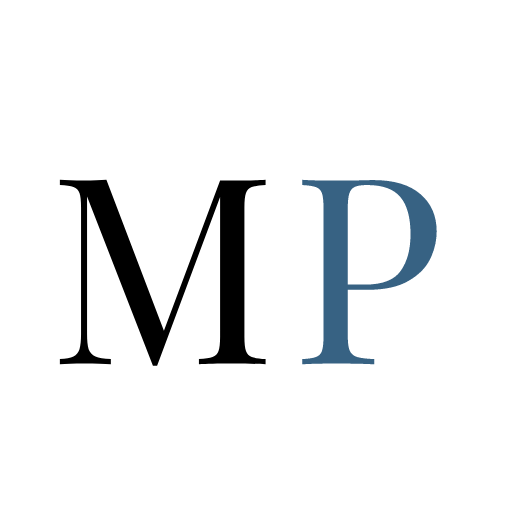
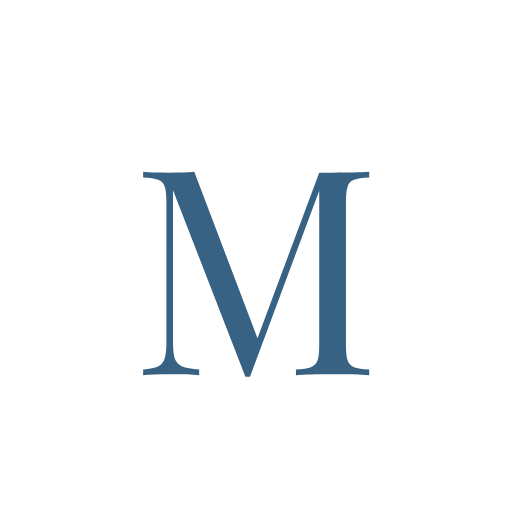
Updates

Changed region(s): [[0.0938, 0.3125, 0.875, 0.75]]

diff --git a/static/js/main.391ee6e3.chunk.js b/static/js/main.391ee6e3.chunk.js
@@ -1,0 +1,2 @@
+(this["webpackJsonppersonal-site"]=this["webpackJsonppersonal-site"]||[]).push([[0],{10:function(n){n.exports=JSON.parse('{"light":{"name":"light","bgColor":"#FFFFF9","contentBgColor":"#FFFFF9","color":"#000000","accentColor":"#376283","boxShadowSmall":"5px 5px 10px #b3b3b0, -5px -5px 10px #ffffff","boxShadowBig":"10px 10px 20px #b3b3b0, -10px -10px 20px #ffffff","boxShadowInset":"inset 2px 2px 4px #b3b3b0, inset -2px -2px 4px #ffffff","boxShadowInsetAccent":"inset 2px 2px 4px #28475e, inset -2px -2px 4px #467da8 !important","transition":"all .5s ease-out","titleFont":"\'Playfair Display\', serif","subtitleFont":"\'Playfair Display\', serif","paragraphFont":"\'Playfair Display\', serif"},"dark":{"name":"dark","bgColor":"#000000","contentBgColor":"#131313","color":"#FFFFFF","accentColor":"#3f51b5","boxShadowSmall":"1px 1px 3px #131313","boxShadowBig":"0 0 0 #000000","boxShadowInset":"inset 0 0 0 #000000","boxShadowInsetAccent":"inset 0 0 0 #000000","transition":"all .5s ease-out","titleFont":"\'Varela\', sans-serif","subtitleFont":"\'Varela\', sans-serif","paragraphFont":"\'Varela\', sans-serif"}}')},11:function(n){n.exports=JSON.parse('{"email":"martinlpetrov1@gmail.com","phone":"+1-(310)-916-3283","location":"Davis, CA, 95616"}')},12:function(n){n.exports=JSON.parse('{"serviceId":"service_ufioaaq","templateId":"template_yf7tk8j","userId":"user_tDnIQ3HQfT79KGmygmH5Y"}')},25:function(n){n.exports=JSON.parse('[{"name":"AI-API","size":"normal","imageUrl":"project-images/ai-api.jpg","fontColor":"black","startDate":"December 2020","endDate":"Now","category":["web-dev"],"tools":["typescript","nodejs","postgresql","react"],"githubUrl":"https://github.com/ai-api","description":"An ongoing project that allows developers to integrate any tenstorflow ml model into their workflow through simple API requests","accomplishments":[]},{"name":"What-To-Watch","url":"http://whattowatch.martin-petrov.com","imageUrl":"project-images/what-to-watch.png","fontColor":"white","startDate":"Jan 2021","endDate":"Jan 2021","category":["web-dev","dev-ops"],"tools":["typescript","react","nodejs","docker"],"githubUrl":"https://github.com/martinpetrov1096/WhatToWatch","description":"A quick and easy way to coordinate with friends to decided on what to watch","accomplishments":[]},{"name":"Personal Site","url":"http://martin-petrov.com","size":"normal","iconUrl":"","imageUrl":"project-images/personal-site.png","fontColor":"black","startDate":"January 2021","endDate":"January 2021","category":["web-dev"],"tools":["javascript","react"],"githubUrl":"https://github.com/martinpetrov1096/Personal-Site","description":"You\'re looking at it","accomplishments":[]},{"name":"Secure Password Manager","imageUrl":"project-images/secret.jpeg","fontColor":"black","startDate":"April 2020","endDate":"October 2020","category":["web-dev","dev-ops"],"tools":["javascript","react","nodejs","dot-net","docker"],"githubUrl":"https://github.com/secret-passwordmanager","description":"A unique approach to password managers","accomplishments":["Oversaw the development of a unique password management system that allows users to securely enter their credentials from a computer, regardless of any malware on it","Developed a microservice architecture backend consisting of a handful of services written in .NET Core and Node JS","Used Docker Compose to containerize and synchronize all microservices to allow other developers to run the backend with 1 command","Set up scheduled API endpoint testing using Postman to help find bugs","Created a browser extension to communicate with our backend using vanilla JS","Worked with others on the React Native app","Contributed over 10,000 lines of code, and documented all API endpoints for the backend."]},{"name":"Restaurant Tinder","url":"http://findfood.martin-petrov.com","imageUrl":"project-images/rest-tinder.png","fontColor":"white","startDate":"June 2020","endDate":"July 2020","category":["web-dev"],"tools":["javascript","vuejs"],"githubUrl":"https://github.com/martinpetrov1096/RestaurantFinder","description":"A fun game to play with friends to figure out where to eat","accomplishments":[]},{"name":"Chegg Scraper","url":"http://chegg.martin-petrov.com","imageUrl":"project-images/chegg-scraper.png","fontColor":"black","startDate":"December 2019","endDate":"December 2019","category":["web-dev"],"tools":["dot-net","csharp","bootstrap"],"githubUrl":"https://github.com/martinpetrov1096/CheggScraperCore","description":"A tool to help students find solutions to problems they\'re struggling with","accomplishments":["Built a web app that allows users to find solutions to homework or practice problems that are hidden behind the paywalls of Chegg.com","Used .NET Core to create a backend that can scrape Chegg.com in real time and return the solutions to the client."]},{"name":"Home Server","imageUrl":"project-images/home-server.jpg","size":"normal","fontColor":"white","startDate":"December 2019","endDate":"December 2019","category":["web-dev"],"tools":["linux","docker","ubuntu"],"githubUrl":"https://github.com/martinpetrov1096/ServerConfig","description":"A personal server running Ubuntu 20.20 LTS that I use to store media and host my personal projects","accomplishments":[]}]')},32:function(n,e,t){},33:function(n,e,t){},5:function(n){n.exports=JSON.parse('{"languages":["javascript","typescript","python","c","csharp","java","cplusplus","go"],"frontend":["html5","css3","react","vuejs","jquery","bootstrap"],"backend":["nodejs","express","postgresql","redis","dot-net","microsoftsqlserver"],"dev-ops":["linux","visualstudio","git","nginx","docker"],"etc":[]}')},56:function(n,e,t){"use strict";t.r(e);var r=t(0),o=t(2),i=t.n(o),a=t(19),c=t.n(a),s=t(3),l=t(20),u=t(4),f=(t(32),t(33),t(1)),d=t(21),b=t.n(d),p=t(6);function h(){var n=Object(s.a)(["\n   border-radius: 100%;\n   border: none;\n   height: 30px;\n   width: 30px;\n   background-color: ",";\n   box-shadow: ",";\n\n   transition: ",", background-color .5s ease-in-out, background-image 1s ease-in-out, box-shadow .5s ease-in-out;\n   \n   @media screen and (max-width: 400px) {\n      height: 20px;\n      width: 20px;\n   }\n"]);return h=function(){return n},n}function x(){var n=Object(s.a)(["\n   flex-basis: 300px;\n   flex-grow: 1;\n   max-width: 500px;\n   display: flex;\n   flex-flow: row nowrap;\n   justify-content: space-around;\n\n   @media screen and (max-width: 400px) {\n      flex-basis: 150px;\n   }\n\n"]);return x=function(){return n},n}function m(){var n=Object(s.a)(["\n   border-radius: 5px;\n   padding: 10px;\n   min-width: 40px;\n   flex-basis: 100px;\n   flex-shrink: 2;\n   flex-grow: 0;\n   background: ",";\n   color: ",";\n   font-family: 'Oswald', sans-serif;\n   font-size: 22px;\n   font-weight: 400;\n   text-align: center;\n   box-shadow: ",";\n   transition: ",";\n\n   @media screen and (max-width: 400px) {\n      border-radius: 3px;\n      font-size: 16px;\n      flex-basis: 60px;\n      padding: 10px;\n   }\n"]);return m=function(){return n},n}function j(){var n=Object(s.a)(["\n   position: fixed;\n   z-index: 99;\n   /* \n    * If not at top of page, give a shadow to \n    * navbar\n   */\n   box-shadow: ",";\n   padding: 10px;\n   width: calc(100% - 20px);\n   height: 50px;\n   background: ",";\n   transition: ",", box-shadow .2s ease-in-out;\n\n   display: flex;\n   flex-flow: row;\n   align-items: center;\n   justify-content: flex-start;\n\n   @media screen and (max-width: 400px) {\n      justify-content: space-around;\n   }\n"]);return j=function(){return n},n}var g=function(n){var e=n.scroll,t=n.curTab,i=Object(o.useCallback)((function(n){return n===t}),[t]),a=Object(o.useMemo)((function(){return p.map((function(n){return Object(r.jsx)(y,{href:"#"+n.toLowerCase(),active:i(n)},n)}))}),[i]);return Object(r.jsxs)(w,{raised:e,children:[Object(r.jsx)(v,{children:Object(r.jsx)(b.a,{text:t,direction:"down",noOverflow:!0,inline:!0})}),Object(r.jsx)(O,{children:a})]})},w=f.b.nav(j(),(function(n){return n.raised?n.theme.boxShadowSmall:"none"}),(function(n){return n.theme.bgColor}),(function(n){return n.theme.transition})),v=f.b.h3(m(),(function(n){return n.theme.contentBgColor}),(function(n){return n.theme.accentColor}),(function(n){return n.theme.boxShadowInset}),(function(n){return n.theme.transition})),O=f.b.div(x()),y=f.b.a(h(),(function(n){return n.active?n.theme.accentColor:n.theme.contentBgColor}),(function(n){return n.active?n.theme.boxShadowInsetAccent:n.theme.boxShadowInset}),(function(n){return n.theme.transition}));function k(){var n=Object(s.a)(["\n   font-family: ",";\n   font-size: 10vw;\n   font-weight: 700;\n   grid-area: name;\n   display: flex;\n   flex-flow: row wrap;\n   justify-content: center;\n   align-items: center;\n   word-wrap: normal;\n\n   & > span {\n      font-weight: 700;\n      color: ",';\n\n      &::before {\n         content: "\u0131"; \n         color: black;\n         position: absolute; \n      }\n   }\n']);return k=function(){return n},n}function S(){var n=Object(s.a)(['\n   margin-bottom: 200px;\n   height: 80vh;\n   width: 100%;\n   display: grid;\n   grid-template-areas: \n      "padding-top"\n      "name"\n      "padding-bottom";\n   grid-template-rows: 1fr 3fr 3fr;\n   position: relative; /* Needs to be here so that the \'i\' has something relative */\n']);return S=function(){return n},n}var C=function(){return Object(r.jsx)(F,{id:"home",children:Object(r.jsxs)(I,{children:["Mart",Object(r.jsx)("span",{children:"i"}),"n Petrov"]})})},F=f.b.section(S()),I=f.b.h1(k(),(function(n){return n.theme.titleFont}),(function(n){return n.theme.accentColor}));function z(){var n=Object(s.a)(["\n   margin: 100px 0;\n   border-radius: 5px;\n   height: 200px;\n   width: min(300px, 80%);\n   background: #FFFFCB;\n   font-family: 'Indie Flower', cursive;\n   box-shadow: ",";\n\n   transform: rotate(10deg);\n\n   display: flex;\n   flex-flow: column nowrap;\n   justify-content: center;\n   align-items: center;\n\n   transition: ",";\n\n   > h2 {\n      font-size: 24px;\n   }\n   > h6 {\n      font-size: 14px;\n   }\n"]);return z=function(){return n},n}function U(n){n.tilt;var e=n.text,t=n.subText;return Object(r.jsxs)(D,{children:[Object(r.jsx)("h2",{children:e}),Object(r.jsx)("h6",{children:t})]})}var D=f.b.div(z(),(function(n){return n.theme.boxShadowSmall}),(function(n){return n.theme.transition}));function A(){var n=Object(s.a)(["\n   box-shadow: ",";\n   border: none;\n   border-radius: 5px;\n   padding: 10px;\n   background-color: ",";\n   color: white;\n   font-family: ",";\n   font-size: 24px;\n"]);return A=function(){return n},n}function N(){var n=Object(s.a)(["\n   margin: 30px 0;\n   font-family: ",";\n\n   font-weight: 500;\n   font-size: 22px;\n   color: ",";\n   transition: ","\n"]);return N=function(){return n},n}function T(){var n=Object(s.a)(["\n   font-family: ",";\n   font-weight: 400;\n   font-size: min(20vw, 150px);\n"]);return T=function(){return n},n}function E(){var n=Object(s.a)(["\n   margin-bottom: 200px;\n   padding-top: 80px;\n   width: 95%;\n   max-width: 1800px;\n   color: ",";\n\n   /* Hide the section if on the next page */\n   opacity: ",";\n   transition: ",";\n   transform: ",";\n\n   display: flex;\n   flex-flow: column nowrap;\n   align-items: center;\n"]);return E=function(){return n},n}var P=f.b.section(E(),(function(n){return n.theme.color}),(function(n){return n.theme.name===n.visible?"1":"0"}),(function(n){return n.theme.transition}),(function(n){return n.theme.name===n.visible?"translateX(0)":"translateX(150px)"})),B=f.b.h1(T(),(function(n){return n.theme.titleFont})),J=f.b.h2(N(),(function(n){return n.theme.subtitleFont}),(function(n){return n.theme.color}),(function(n){return n.theme.transition}));f.b.button(A(),(function(n){return n.theme.boxShadowInsetAccent}),(function(n){return n.theme.accentColor}),(function(n){return n.theme.subtitleFont}));function M(){var n=Object(s.a)(["\n   box-shadow: ",";\n   border-radius: 5px;\n   padding: 20px;\n   background-color: ",";\n   color: white;\n   font-family: ",";\n   font-size: 24px;\n\n\n"]);return M=function(){return n},n}function q(){var n=Object(s.a)(["\n   position: relative;\n   width: 40vw;\n   height: auto;\n   z-index: 1;\n   box-shadow: ",";\n   overflow-x: hidden;\n   transition: all .5s ease-in-out;\n\n   filter: ",";\n   /**\n    * Unshift the image if we are on the resume section\n   */\n   transform: ",";\n\n   @media screen and (max-width: 1000px) {\n      width: 80vw;\n   }\n"]);return q=function(){return n},n}var L=function(n){var e=n.scroll;return Object(r.jsxs)(P,{visible:"light",id:"resume",children:[Object(r.jsx)(R,{src:"resume/resume.svg",alt:"Martin Petrov's Resume",unshift:e}),Object(r.jsx)(U,{tilt:"10",text:"Busy? Here's my resume"}),Object(r.jsx)(H,{href:"resume/resume.pdf",download:!0,children:"Download"})]})},R=f.b.img(q(),(function(n){return n.unshift?n.theme.boxShadowSmall:n.theme.boxShadowBig}),(function(n){return"dark"===n.theme.name?"brightness(70%)":"brightness(100%)"}),(function(n){return n.unshift?"translate3d(0,0,0) rotate(0) scale(1)":"translate3d(-20vw, 0vh, 0) rotate(-22deg) scale(1.2)"})),H=f.b.a(M(),(function(n){return n.theme.boxShadowInsetAccent}),(function(n){return n.theme.accentColor}),(function(n){return n.theme.subtitleFont})),_=t(25);function W(){var n=Object(s.a)(["\n   width: 100%;\n   display: flex;\n   flex-flow: row wrap;\n   justify-content: center;\n   align-items: center;\n   &::before {\n      content: 'Tools Used ';\n      width: 100%;\n      font-size: 20px;\n   }\n   & > * {\n      font-size: 18px;\n      margin: 3px;\n   }\n"]);return W=function(){return n},n}function K(){var n=Object(s.a)(["\n   text-decoration: none;\n   & > i {\n      font-size: 40px; \n      text-align: center;\n      transition: color .2s ease-in-out;\n      &:hover {\n         color: ",";\n      }\n   }\n"]);return K=function(){return n},n}function V(){var n=Object(s.a)(["\n   font-size: 28px;\n"]);return V=function(){return n},n}function Y(){var n=Object(s.a)(["\n   position: absolute;\n   border-radius: 5px;\n   width: 100%;\n   height: 100%;  \n   opacity: 0;\n   display: flex;\n   flex-flow: column nowrap;\n   justify-content: center;\n   align-items: center;\n   & > * {\n      font-family: 'Varela', sans-serif;\n      color: ",";\n      text-align: center;\n      padding: 3%;\n   }\n   & > h3 {\n      font-size: 28px;\n   }\n   & > h5 {\n      font-size: 14px;\n   }\n   transition: backdrop-filter .2s ease-in, opacity .2s ease-in;\n   &:hover {\n      opacity: 1;\n      backdrop-filter: blur(40px);\n   }\n"]);return Y=function(){return n},n}function Q(){var n=Object(s.a)(["\n   width: 100%;\n   border-radius: 0 0 5px 5px;\n"]);return Q=function(){return n},n}function X(){var n=Object(s.a)(["\n   height: 10px;\n   width: 10px;\n   border-radius: 50%;\n   margin-right: 5px;\n   /* Make the window buttons */\n   &:nth-of-type(1) {\n      background-color: #28ca41;\n   }\n   &:nth-of-type(2) {\n      background-color: #ffbd2e;\n   }\n   &:nth-of-type(3) {\n      background-color: #ff5f57 ;\n   }\n"]);return X=function(){return n},n}function G(){var n=Object(s.a)(["\n   border-radius: 5px 5px 0 0;\n   width: 100%;\n   height: 30px;\n   background-color: ",";\n   display: flex;\n   align-items: center;\n   justify-content: flex-end;   \n"]);return G=function(){return n},n}function Z(){var n=Object(s.a)([" \n   margin: max(1%, 20px) 1%;\n   border-radius: 10px;\n   flex: 480px 0 1;\n   transition: "," transform .25s ease-in-out;\n   position: relative;\n   display: flex;\n   flex-flow: column nowrap;\n   justify-content: flex-start;\n"]);return Z=function(){return n},n}var $=function(n){var e=n.project,t=Object(o.useMemo)((function(){return e.tools.map((function(n){return Object(r.jsx)("i",{className:"devicon-".concat(n,"-plain")},n)}))}),[e.tools]),i=Object(o.useMemo)((function(){return Object(r.jsx)("i",{className:"devicon-github-plain"})}),[]);return Object(r.jsxs)(nn,{size:e.size,children:[Object(r.jsxs)(en,{children:[Object(r.jsx)(tn,{}),Object(r.jsx)(tn,{}),Object(r.jsx)(tn,{})]}),Object(r.jsxs)(on,{fontColor:e.fontColor,children:[Object(r.jsx)(an,{href:e.url,target:"_blank",rel:"noopener noreferrer",children:e.name}),Object(r.jsx)(cn,{href:e.githubUrl,target:"_blank",rel:"noopener noreferrer",children:i}),Object(r.jsx)("h5",{children:e.description}),Object(r.jsx)(sn,{children:t})]}),Object(r.jsx)(rn,{src:e.imageUrl,alt:e.name})]},e.name)},nn=f.b.div(Z(),(function(n){return n.theme.transform})),en=f.b.div(G(),(function(n){return n.theme.contentBgColor})),tn=f.b.div(X()),rn=f.b.img(Q()),on=f.b.div(Y(),(function(n){return n.fontColor})),an=f.b.a(V()),cn=f.b.a(K(),(function(n){return n.theme.accentColor})),sn=f.b.div(W());function ln(){var n=Object(s.a)(["\n   display: flex;\n   flex-flow: row wrap;\n   justify-content: center;\n"]);return ln=function(){return n},n}var un=function(n){n.curTab;return Object(r.jsxs)(P,{visible:"dark",id:"portfolio",children:[Object(r.jsx)(B,{children:"Portfolio"}),Object(r.jsx)(fn,{children:_.map((function(n){return Object(r.jsx)($,{project:n},n.name)}))})]})},fn=f.b.div(ln());function dn(){var n=Object(s.a)(["\n   margin: 10px;\n   flex: 90px 1 0;\n\n   display: flex;\n   flex-flow: column nowrap;\n   justify-content: center;\n   align-items: center;\n\n   > i {\n      font-size: 90px;\n      margin-bottom: 10px;\n   }\n   > h6 {\n      font-family: ",";\n      font-size: 14px;\n      text-transform: capitalize;\n   }\n\n\n"]);return dn=function(){return n},n}function bn(){var n=Object(s.a)(["\n   margin-bottom: 20px;\n   padding-bottom: 10px;\n   border-bottom: solid 1px grey;\n   flex: 100% 1 0;\n   font-size: 30px;\n   font-family: ",";\n"]);return bn=function(){return n},n}function pn(){var n=Object(s.a)(["\n   margin: 40px;\n   border-radius: 10px;\n   padding: 40px;\n   width: calc(100% - 160px);\n   background-color: ",";\n\n   display: flex;\n   flex-flow: row wrap;\n   justify-content: center;\n   align-items: center;\n"]);return pn=function(){return n},n}var hn=function(n){var e=n.title,t=n.skills,i=Object(o.useMemo)((function(){return t.map((function(n){return"express"===n?Object(r.jsxs)(jn,{children:[Object(r.jsx)("i",{className:"devicon-express-original colored"}),Object(r.jsx)("h6",{children:n})]},n):Object(r.jsxs)(jn,{children:[Object(r.jsx)("i",{className:"devicon-".concat(n,"-plain colored")}),Object(r.jsx)("h6",{children:n})]},n)}))}),[t]);return Object(r.jsxs)(xn,{visible:"dark",children:[Object(r.jsx)(mn,{children:e}),i]})},xn=f.b.div(pn(),(function(n){return n.theme.contentBgColor})),mn=f.b.h2(bn(),(function(n){return n.theme.titleFont})),jn=f.b.div(dn(),(function(n){return n.theme.subtitleFont})),gn=t(5),wn=function(){return Object(r.jsxs)(P,{visible:"dark",id:"skills",children:[Object(r.jsx)(B,{children:"Skills"}),Object(r.jsx)(hn,{title:"Languages",skills:gn.languages}),Object(r.jsx)(hn,{title:"Front End",skills:gn.frontend}),Object(r.jsx)(hn,{title:"Back End",skills:gn.backend}),Object(r.jsx)(hn,{title:"Dev Ops",skills:gn["dev-ops"]})]})},vn=t(9);function On(){var n=Object(s.a)(["\n   padding-bottom: 50px;\n   max-width: 900px;\n   font-size: 22px;\n   line-height: 1.5;\n   > em {\n      font-weight: 700;\n      font-size: 28px;\n      \n   }\n"]);return On=function(){return n},n}function yn(){var n=Object(s.a)(["\n   text-align: center;\n   font-weight: 400;\n   padding-bottom: 20px;\n"]);return yn=function(){return n},n}function kn(){var n=Object(s.a)(["\n   padding: 10px;\n   color: ",";\n   text-decoration: none;\n   display: flex;\n   flex-flow: column nowrap;\n   justify-content: center;\n\n   & > i {\n      font-size: 60px; \n      text-align: center;\n      transition: color .2s ease-in-out;\n      &:hover {\n         color: ",";\n      }\n   }\n\n"]);return kn=function(){return n},n}function Sn(){var n=Object(s.a)(["\n   padding: 30px;\n   flex: 0 0 100%;\n\n   display: flex;\n   flex-flow: row nowrap;\n   justify-content: center;\n"]);return Sn=function(){return n},n}function Cn(){var n=Object(s.a)(["\n   border-radius: 50%;\n   width: 100%;\n   height: auto;\n   \n"]);return Cn=function(){return n},n}function Fn(){var n=Object(s.a)(["\n   flex: 0 1 1000px;\n   font-family: ",";\n\n   display: flex;\n   flex-flow: column nowrap;\n   align-items: flex-start;\n"]);return Fn=function(){return n},n}function In(){var n=Object(s.a)(["\n   flex: 0 1 400px;\n\n\n   display: flex;\n   flex-flow: column nowrap;\n\n"]);return In=function(){return n},n}function zn(){var n=Object(s.a)(["\n   width: 100%;\n\n   display: flex;\n   flex-flow: row wrap;\n   justify-content: space-around;\n   align-items: flex-start;\n"]);return zn=function(){return n},n}var Un=function(n){n.curTab;return Object(r.jsx)(P,{visible:"light",id:"about",children:Object(r.jsxs)(Dn,{children:[Object(r.jsxs)(An,{children:[Object(r.jsx)(Tn,{src:vn.profileUrl,alt:"Martin Petrov's Profile"}),Object(r.jsxs)(En,{children:[Object(r.jsx)(Pn,{href:vn.linkedInUrl,target:"_blank",rel:"noopener noreferrer",children:Object(r.jsx)("i",{className:"devicon-linkedin-plain"})}),Object(r.jsx)(Pn,{href:vn.githubUrl,target:"_blank",rel:"noopener noreferrer",children:Object(r.jsx)("i",{className:"devicon-github-plain"})})]})]}),Object(r.jsxs)(Nn,{children:[Object(r.jsx)(Bn,{children:" Hi, I'm Martin"}),Object(r.jsx)(Jn,{children:"I\u2019m a recent Computer Science graduate from the University of California, Davis. Over the past couple years I\u2019ve kept myself busy by learning as many languages, frameworks, and libraries as I can."}),Object(r.jsxs)(Jn,{children:["I'm a very passionate and capable ",Object(r.jsx)("em",{children:"Fullstack Software Engineer"})]}),Object(r.jsx)(Jn,{children:"Keep scrolling to see some of my most recent projects,the tools I use, and my contact information"})]})]})})},Dn=f.b.div(zn()),An=f.b.div(In()),Nn=f.b.div(Fn(),(function(n){return n.theme.paragraphFont})),Tn=f.b.img(Cn()),En=f.b.div(Sn()),Pn=f.b.a(kn(),(function(n){return n.theme.color}),(function(n){return n.theme.accentColor})),Bn=Object(f.b)(B)(yn()),Jn=f.b.p(On()),Mn=t(10),qn=t(11);function Ln(){var n=Object(s.a)(["\n   padding: 30px;\n   font-size: 18px;\n   font-family: ",";\n"]);return Ln=function(){return n},n}function Rn(){var n=Object(s.a)(["\n\n   width: 100%;\n   max-width: 1000px;\n   display: flex;\n   flex-flow: row wrap;\n   justify-content: space-around;\n"]);return Rn=function(){return n},n}var Hn=function(){return Object(r.jsxs)(_n,{children:[Object(r.jsx)(Wn,{children:qn.email}),Object(r.jsx)(Wn,{children:qn.phone}),Object(r.jsx)(Wn,{children:qn.location})]})},_n=f.b.div(Rn()),Wn=f.b.h4(Ln(),(function(n){return n.theme.subtitleFont})),Kn=t(26),Vn=t.n(Kn),Yn=t(12);function Qn(){var n=Object(s.a)(["\n   align-self: flex-end;\n   box-shadow: ",";\n   border: none;\n   border-radius: 5px;\n   padding: 10px;\n   font-family: ",";\n   font-size: 24px;\n   transition: all .2s ease-in-out;\n   &:hover {\n      background-color: ",";\n\n      box-shadow: ",";\n      color: white;\n   }\n"]);return Qn=function(){return n},n}function Xn(){var n=Object(s.a)(["\n   \n   flex: 1 1 80%;\n   align-self: center;\n   width: 100%;\n   resize: none;\n   background-color: inherit;\n   border: none;\n   font-size: 25px;\n   font-family: 'Indie Flower', cursive;\n   &:focus {\n      outline: none;\n   }\n"]);return Xn=function(){return n},n}function Gn(){var n=Object(s.a)(["\n"]);return Gn=function(){return n},n}function Zn(){var n=Object(s.a)(["\n"]);return Zn=function(){return n},n}function $n(){var n=Object(s.a)(["\n   font-size: 30px;\n"]);return $n=function(){return n},n}function ne(){var n=Object(s.a)(["\n   display: block;\n   border: none;\n   width: 100%;\n   background-color: inherit;\n   font-size: 30px;\n   font-weight: bold;\n   font-family: 'Indie Flower', cursive;\n   text-decoration: underline;\n   &:focus {\n      outline: none;\n   }\n"]);return ne=function(){return n},n}function ee(){var n=Object(s.a)(["\n   flex: 1 1 50%;\n   border-radius: 5px;\n   box-shadow: ",";\n   padding: min(40px, 3%);\n   margin-top: 150px;\n   width: min(95%, 1000px);\n   min-height: 500px;\n\n   display: flex;\n   flex-flow: column nowrap;\n"]);return ee=function(){return n},n}var te=function(){var n=Object(o.useState)(""),e=Object(u.a)(n,2),t=e[0],i=e[1],a=Object(o.useState)(""),c=Object(u.a)(a,2),s=c[0],l=c[1],f=Object(o.useState)(""),d=Object(u.a)(f,2),b=d[0],p=d[1],h=Object(o.useState)(""),x=Object(u.a)(h,2),m=x[0],j=x[1],g=Object(o.useState)(!1),w=Object(u.a)(g,2),v=w[0],O=w[1],y=Object(o.useCallback)((function(n){O(!0),n.preventDefault(),Vn.a.sendForm(Yn.serviceId,Yn.templateId,n.target,Yn.userId).then((function(n){console.log(n.text)}),(function(n){console.log(n.text)}))}),[]);return v?Object(r.jsx)(J,{children:"I'll make sure to respond to you soon"}):Object(r.jsxs)(re,{onSubmit:y,sent:v,children:[Object(r.jsx)(ie,{value:b,onChange:function(n){return p(n.target.value)},onClick:function(n){return n.target.select()}}),Object(r.jsx)(ae,{value:s,onChange:function(n){return l(n.target.value)},onClick:function(n){return n.target.select()}}),Object(r.jsx)(ce,{value:t,onChange:function(n){return i(n.target.value)},onClick:function(n){return n.target.select()}}),Object(r.jsx)(se,{value:m,onChange:function(n){return j(n.target.value)},onClick:function(n){return n.target.select()}}),Object(r.jsx)(le,{})]})},re=f.b.form(ee(),(function(n){return n.theme.boxShadowSmall})),oe=f.b.input.attrs({type:"text",required:!0})(ne()),ie=Object(f.b)(oe).attrs({type:"email",name:"email",placeholder:"Email Address"})($n()),ae=Object(f.b)(oe).attrs({type:"text",name:"subject",placeholder:"Subject"})(Zn()),ce=Object(f.b)(oe).attrs({name:"name",placeholder:"Name"})(Gn()),se=f.b.textarea.attrs({name:"message",placeholder:"Enter your message here. . ."})(Xn()),le=f.b.input.attrs({type:"submit",value:"Send"})(Qn(),(function(n){return n.theme.boxShadowInset}),(function(n){return n.theme.subtitleFont}),(function(n){return n.theme.accentColor}),(function(n){return n.theme.boxShadowInsetAccent}));function ue(){var n=Object(s.a)(["\n   /**\n    * Need to set height to be 100vh\n    * just to make sure that the page\n    * can scroll all the way to change\n    * themes and make the contact \n    * section visible\n    */\n   min-height: calc(100vh - 70px);\n   margin-bottom: 0;\n\n"]);return ue=function(){return n},n}var fe=function(){return Object(r.jsxs)(de,{visible:"light",id:"contact",children:[Object(r.jsx)(B,{children:"Contact"}),Object(r.jsx)(J,{children:"Shoot me an email, or give me a call."}),Object(r.jsx)(Hn,{}),Object(r.jsx)(J,{children:"Or, fill out the form below"}),Object(r.jsx)(te,{})]})},de=Object(f.b)(P)(ue());function be(){var n=Object(s.a)(["\n\n   background: ",";\n   transition: ",";\n   display: flex;\n   flex-flow: column nowrap;\n   align-items: center;\n\n"]);return be=function(){return n},n}function pe(){var n=Object(o.useRef)(null),e=Object(o.useState)(0),t=Object(u.a)(e,2),i=t[0],a=t[1],c=Object(o.useState)("home"),s=Object(u.a)(c,2),d=s[0],b=s[1];Object(o.useEffect)((function(){window.addEventListener("scroll",(function(){a((function(){return window.scrollY}))}))}),[]),Object(o.useEffect)((function(){var e,t=Array.from(n.current.childNodes).map((function(n){return n.getBoundingClientRect().bottom})),r=Object(l.a)(t.entries());try{for(r.s();!(e=r.n()).done;){var o=Object(u.a)(e.value,2),i=o[0];if(o[1]>200){b(p[i]);break}}}catch(a){r.e(a)}finally{r.f()}}),[i]),Object(o.useEffect)((function(){console.log(d)}),[d]);var h=Object(o.useState)(Mn.light),x=Object(u.a)(h,2),m=x[0],j=x[1];return Object(o.useEffect)((function(){switch(d){case"HOME":case"RESUME":case"ABOUT":case"CONTACT":default:j(Mn.light);break;case"PORTFOLIO":case"SKILLS":j(Mn.dark)}}),[d]),Object(r.jsxs)(f.a,{theme:m,children:[Object(r.jsx)(g,{curTab:d,scroll:i}),Object(r.jsxs)(he,{ref:n,children:[Object(r.jsx)(C,{}),Object(r.jsx)(L,{scroll:i}),Object(r.jsx)(Un,{curTab:d}),Object(r.jsx)(un,{curTab:d}),Object(r.jsx)(wn,{}),Object(r.jsx)(fe,{})]})]})}var he=f.b.main(be(),(function(n){return n.theme.bgColor}),(function(n){return n.theme.transition}));c.a.render(Object(r.jsx)(i.a.StrictMode,{children:Object(r.jsx)(pe,{})}),document.getElementById("root"))},6:function(n){n.exports=JSON.parse('["HOME","RESUME","ABOUT","PORTFOLIO","SKILLS","CONTACT"]')},9:function(n){n.exports=JSON.parse('{"profileUrl":"profile/profile-picture.jpg","linkedInUrl":"http://www.linkedin.com/in/martin-petrov-5062aa160/","githubUrl":"http://github.com/martinpetrov1096"}')}},[[56,1,2]]]);
+//# sourceMappingURL=main.391ee6e3.chunk.js.map

diff --git a/index.html b/index.html
@@ -1,1 +1,1 @@
-<!doctype html><html lang="en" prefix="og: https://ogp.me/ns#"><head><meta charset="utf-8"/><link rel="icon" href="/icons/manifest-icon-192.png"/><meta name="viewport" content="width=device-width,initial-scale=1"/><meta name="theme-color" content="#000000"/><meta name="description" content="Martin Petrov's Portfolio Website"/><meta property="og:title" content="Martin Petrov's Portfolio Site"/><meta property="og:description" content="Here's my portfolio website where you can see my most recent projects"/><meta property="og:image:width" content="2159"/><meta property="og:image:height" content="1236"/><meta property="og:image" content="/preview-image.png"/><meta property="og:url" content="www.martin-petrov.com"/><link rel="apple-touch-icon" href="/icons/apple-icon-180.png"><meta name="apple-mobile-web-app-capable" content="yes"><link rel="apple-touch-startup-image" href="/icons/apple-splash-2048-2732.jpg" media="(device-width: 1024px) and (device-height: 1366px) and (-webkit-device-pixel-ratio: 2) and (orientation: portrait)"><link rel="apple-touch-startup-image" href="/icons/apple-splash-2732-2048.jpg" media="(device-width: 1024px) and (device-height: 1366px) and (-webkit-device-pixel-ratio: 2) and (orientation: landscape)"><link rel="apple-touch-startup-image" href="/icons/apple-splash-1668-2388.jpg" media="(device-width: 834px) and (device-height: 1194px) and (-webkit-device-pixel-ratio: 2) and (orientation: portrait)"><link rel="apple-touch-startup-image" href="/icons/apple-splash-2388-1668.jpg" media="(device-width: 834px) and (device-height: 1194px) and (-webkit-device-pixel-ratio: 2) and (orientation: landscape)"><link rel="apple-touch-startup-image" href="/icons/apple-splash-1536-2048.jpg" media="(device-width: 768px) and (device-height: 1024px) and (-webkit-device-pixel-ratio: 2) and (orientation: portrait)"><link rel="apple-touch-startup-image" href="/icons/apple-splash-2048-1536.jpg" media="(device-width: 768px) and (device-height: 1024px) and (-webkit-device-pixel-ratio: 2) and (orientation: landscape)"><link rel="apple-touch-startup-image" href="/icons/apple-splash-1668-2224.jpg" media="(device-width: 834px) and (device-height: 1112px) and (-webkit-device-pixel-ratio: 2) and (orientation: portrait)"><link rel="apple-touch-startup-image" href="/icons/apple-splash-2224-1668.jpg" media="(device-width: 834px) and (device-height: 1112px) and (-webkit-device-pixel-ratio: 2) and (orientation: landscape)"><link rel="apple-touch-startup-image" href="/icons/apple-splash-1620-2160.jpg" media="(device-width: 810px) and (device-height: 1080px) and (-webkit-device-pixel-ratio: 2) and (orientation: portrait)"><link rel="apple-touch-startup-image" href="/icons/apple-splash-2160-1620.jpg" media="(device-width: 810px) and (device-height: 1080px) and (-webkit-device-pixel-ratio: 2) and (orientation: landscape)"><link rel="apple-touch-startup-image" href="/icons/apple-splash-1284-2778.jpg" media="(device-width: 428px) and (device-height: 926px) and (-webkit-device-pixel-ratio: 3) and (orientation: portrait)"><link rel="apple-touch-startup-image" href="/icons/apple-splash-2778-1284.jpg" media="(device-width: 428px) and (device-height: 926px) and (-webkit-device-pixel-ratio: 3) and (orientation: landscape)"><link rel="apple-touch-startup-image" href="/icons/apple-splash-1170-2532.jpg" media="(device-width: 390px) and (device-height: 844px) and (-webkit-device-pixel-ratio: 3) and (orientation: portrait)"><link rel="apple-touch-startup-image" href="/icons/apple-splash-2532-1170.jpg" media="(device-width: 390px) and (device-height: 844px) and (-webkit-device-pixel-ratio: 3) and (orientation: landscape)"><link rel="apple-touch-startup-image" href="/icons/apple-splash-1125-2436.jpg" media="(device-width: 375px) and (device-height: 812px) and (-webkit-device-pixel-ratio: 3) and (orientation: portrait)"><link rel="apple-touch-startup-image" href="/icons/apple-splash-2436-1125.jpg" media="(device-width: 375px) and (device-height: 812px) and (-webkit-device-pixel-ratio: 3) and (orientation: landscape)"><link rel="apple-touch-startup-image" href="/icons/apple-splash-1242-2688.jpg" media="(device-width: 414px) and (device-height: 896px) and (-webkit-device-pixel-ratio: 3) and (orientation: portrait)"><link rel="apple-touch-startup-image" href="/icons/apple-splash-828-1792.jpg" media="(device-width: 414px) and (device-height: 896px) and (-webkit-device-pixel-ratio: 2) and (orientation: portrait)"><link rel="apple-touch-startup-image" href="/icons/apple-splash-1792-828.jpg" media="(device-width: 414px) and (device-height: 896px) and (-webkit-device-pixel-ratio: 2) and (orientation: landscape)"><link rel="apple-touch-startup-image" href="/icons/apple-splash-2688-1242.jpg" media="(device-width: 414px) and (device-height: 896px) and (-webkit-device-pixel-ratio: 3) and (orientation: landscape)"><link rel="apple-touch-startup-image" href="/icons/apple-splash-1242-2208.jpg" media="(device-width: 414px) and (device-height: 736px) and (-webkit-device-pixel-ratio: 3) and (orientation: portrait)"><link rel="apple-touch-startup-image" href="/icons/apple-splash-2208-1242.jpg" media="(device-width: 414px) and (device-height: 736px) and (-webkit-device-pixel-ratio: 3) and (orientation: landscape)"><link rel="apple-touch-startup-image" href="/icons/apple-splash-750-1334.jpg" media="(device-width: 375px) and (device-height: 667px) and (-webkit-device-pixel-ratio: 2) and (orientation: portrait)"><link rel="apple-touch-startup-image" href="/icons/apple-splash-1334-750.jpg" media="(device-width: 375px) and (device-height: 667px) and (-webkit-device-pixel-ratio: 2) and (orientation: landscape)"><link rel="apple-touch-startup-image" href="/icons/apple-splash-640-1136.jpg" media="(device-width: 320px) and (device-height: 568px) and (-webkit-device-pixel-ratio: 2) and (orientation: portrait)"><link rel="apple-touch-startup-image" href="/icons/apple-splash-1136-640.jpg" media="(device-width: 320px) and (device-height: 568px) and (-webkit-device-pixel-ratio: 2) and (orientation: landscape)"><link rel="manifest" href="/manifest.json"/><title>React App</title><link href="/static/css/main.25f86b68.chunk.css" rel="stylesheet"></head><body><noscript>You need to enable JavaScript to run this app.</noscript><div id="root"></div><script>!function(e){function r(r){for(var n,l,i=r[0],a=r[1],p=r[2],c=0,s=[];c<i.length;c++)l=i[c],Object.prototype.hasOwnProperty.call(o,l)&&o[l]&&s.push(o[l][0]),o[l]=0;for(n in a)Object.prototype.hasOwnProperty.call(a,n)&&(e[n]=a[n]);for(f&&f(r);s.length;)s.shift()();return u.push.apply(u,p||[]),t()}function t(){for(var e,r=0;r<u.length;r++){for(var t=u[r],n=!0,i=1;i<t.length;i++){var a=t[i];0!==o[a]&&(n=!1)}n&&(u.splice(r--,1),e=l(l.s=t[0]))}return e}var n={},o={1:0},u=[];function l(r){if(n[r])return n[r].exports;var t=n[r]={i:r,l:!1,exports:{}};return e[r].call(t.exports,t,t.exports,l),t.l=!0,t.exports}l.m=e,l.c=n,l.d=function(e,r,t){l.o(e,r)||Object.defineProperty(e,r,{enumerable:!0,get:t})},l.r=function(e){"undefined"!=typeof Symbol&&Symbol.toStringTag&&Object.defineProperty(e,Symbol.toStringTag,{value:"Module"}),Object.defineProperty(e,"__esModule",{value:!0})},l.t=function(e,r){if(1&r&&(e=l(e)),8&r)return e;if(4&r&&"object"==typeof e&&e&&e.__esModule)return e;var t=Object.create(null);if(l.r(t),Object.defineProperty(t,"default",{enumerable:!0,value:e}),2&r&&"string"!=typeof e)for(var n in e)l.d(t,n,function(r){return e[r]}.bind(null,n));return t},l.n=function(e){var r=e&&e.__esModule?function(){return e.default}:function(){return e};return l.d(r,"a",r),r},l.o=function(e,r){return Object.prototype.hasOwnProperty.call(e,r)},l.p="/";var i=this["webpackJsonppersonal-site"]=this["webpackJsonppersonal-site"]||[],a=i.push.bind(i);i.push=r,i=i.slice();for(var p=0;p<i.length;p++)r(i[p]);var f=a;t()}([])</script><script src="/static/js/2.cbe8621e.chunk.js"></script><script src="/static/js/main.af06cfce.chunk.js"></script></body></html>
+<!doctype html><html lang="en" prefix="og: https://ogp.me/ns#"><head><meta charset="utf-8"/><link rel="icon" href="/icons/manifest-icon-192.png"/><meta name="viewport" content="width=device-width,initial-scale=1"/><meta name="theme-color" content="#000000"/><meta name="description" content="I'm a fullstack software engineer who's currently in the San Fransisco area"/><meta property="og:title" content="Martin Petrov's Portfolio Site"/><meta property="og:description" content="I'm a fullstack software engineer who's currently in the San Fransisco area"/><meta property="og:image:width" content="2159"/><meta property="og:image:height" content="1236"/><meta property="og:image" content="/preview-image.png"/><meta property="og:url" content="www.martin-petrov.com"/><link rel="apple-touch-icon" href="/icons/apple-icon-180.png"><meta name="apple-mobile-web-app-capable" content="yes"><link rel="apple-touch-startup-image" href="/icons/apple-splash-2048-2732.jpg" media="(device-width: 1024px) and (device-height: 1366px) and (-webkit-device-pixel-ratio: 2) and (orientation: portrait)"><link rel="apple-touch-startup-image" href="/icons/apple-splash-2732-2048.jpg" media="(device-width: 1024px) and (device-height: 1366px) and (-webkit-device-pixel-ratio: 2) and (orientation: landscape)"><link rel="apple-touch-startup-image" href="/icons/apple-splash-1668-2388.jpg" media="(device-width: 834px) and (device-height: 1194px) and (-webkit-device-pixel-ratio: 2) and (orientation: portrait)"><link rel="apple-touch-startup-image" href="/icons/apple-splash-2388-1668.jpg" media="(device-width: 834px) and (device-height: 1194px) and (-webkit-device-pixel-ratio: 2) and (orientation: landscape)"><link rel="apple-touch-startup-image" href="/icons/apple-splash-1536-2048.jpg" media="(device-width: 768px) and (device-height: 1024px) and (-webkit-device-pixel-ratio: 2) and (orientation: portrait)"><link rel="apple-touch-startup-image" href="/icons/apple-splash-2048-1536.jpg" media="(device-width: 768px) and (device-height: 1024px) and (-webkit-device-pixel-ratio: 2) and (orientation: landscape)"><link rel="apple-touch-startup-image" href="/icons/apple-splash-1668-2224.jpg" media="(device-width: 834px) and (device-height: 1112px) and (-webkit-device-pixel-ratio: 2) and (orientation: portrait)"><link rel="apple-touch-startup-image" href="/icons/apple-splash-2224-1668.jpg" media="(device-width: 834px) and (device-height: 1112px) and (-webkit-device-pixel-ratio: 2) and (orientation: landscape)"><link rel="apple-touch-startup-image" href="/icons/apple-splash-1620-2160.jpg" media="(device-width: 810px) and (device-height: 1080px) and (-webkit-device-pixel-ratio: 2) and (orientation: portrait)"><link rel="apple-touch-startup-image" href="/icons/apple-splash-2160-1620.jpg" media="(device-width: 810px) and (device-height: 1080px) and (-webkit-device-pixel-ratio: 2) and (orientation: landscape)"><link rel="apple-touch-startup-image" href="/icons/apple-splash-1284-2778.jpg" media="(device-width: 428px) and (device-height: 926px) and (-webkit-device-pixel-ratio: 3) and (orientation: portrait)"><link rel="apple-touch-startup-image" href="/icons/apple-splash-2778-1284.jpg" media="(device-width: 428px) and (device-height: 926px) and (-webkit-device-pixel-ratio: 3) and (orientation: landscape)"><link rel="apple-touch-startup-image" href="/icons/apple-splash-1170-2532.jpg" media="(device-width: 390px) and (device-height: 844px) and (-webkit-device-pixel-ratio: 3) and (orientation: portrait)"><link rel="apple-touch-startup-image" href="/icons/apple-splash-2532-1170.jpg" media="(device-width: 390px) and (device-height: 844px) and (-webkit-device-pixel-ratio: 3) and (orientation: landscape)"><link rel="apple-touch-startup-image" href="/icons/apple-splash-1125-2436.jpg" media="(device-width: 375px) and (device-height: 812px) and (-webkit-device-pixel-ratio: 3) and (orientation: portrait)"><link rel="apple-touch-startup-image" href="/icons/apple-splash-2436-1125.jpg" media="(device-width: 375px) and (device-height: 812px) and (-webkit-device-pixel-ratio: 3) and (orientation: landscape)"><link rel="apple-touch-startup-image" href="/icons/apple-splash-1242-2688.jpg" media="(device-width: 414px) and (device-height: 896px) and (-webkit-device-pixel-ratio: 3) and (orientation: portrait)"><link rel="apple-touch-startup-image" href="/icons/apple-splash-828-1792.jpg" media="(device-width: 414px) and (device-height: 896px) and (-webkit-device-pixel-ratio: 2) and (orientation: portrait)"><link rel="apple-touch-startup-image" href="/icons/apple-splash-1792-828.jpg" media="(device-width: 414px) and (device-height: 896px) and (-webkit-device-pixel-ratio: 2) and (orientation: landscape)"><link rel="apple-touch-startup-image" href="/icons/apple-splash-2688-1242.jpg" media="(device-width: 414px) and (device-height: 896px) and (-webkit-device-pixel-ratio: 3) and (orientation: landscape)"><link rel="apple-touch-startup-image" href="/icons/apple-splash-1242-2208.jpg" media="(device-width: 414px) and (device-height: 736px) and (-webkit-device-pixel-ratio: 3) and (orientation: portrait)"><link rel="apple-touch-startup-image" href="/icons/apple-splash-2208-1242.jpg" media="(device-width: 414px) and (device-height: 736px) and (-webkit-device-pixel-ratio: 3) and (orientation: landscape)"><link rel="apple-touch-startup-image" href="/icons/apple-splash-750-1334.jpg" media="(device-width: 375px) and (device-height: 667px) and (-webkit-device-pixel-ratio: 2) and (orientation: portrait)"><link rel="apple-touch-startup-image" href="/icons/apple-splash-1334-750.jpg" media="(device-width: 375px) and (device-height: 667px) and (-webkit-device-pixel-ratio: 2) and (orientation: landscape)"><link rel="apple-touch-startup-image" href="/icons/apple-splash-640-1136.jpg" media="(device-width: 320px) and (device-height: 568px) and (-webkit-device-pixel-ratio: 2) and (orientation: portrait)"><link rel="apple-touch-startup-image" href="/icons/apple-splash-1136-640.jpg" media="(device-width: 320px) and (device-height: 568px) and (-webkit-device-pixel-ratio: 2) and (orientation: landscape)"><link rel="manifest" href="/manifest.json"/><title>Martin Petrov FullStack Dev</title><link href="/static/css/main.25f86b68.chunk.css" rel="stylesheet"></head><body><noscript>You need to enable JavaScript to run this app.</noscript><div id="root"></div><script>!function(e){function r(r){for(var n,l,i=r[0],a=r[1],p=r[2],c=0,s=[];c<i.length;c++)l=i[c],Object.prototype.hasOwnProperty.call(o,l)&&o[l]&&s.push(o[l][0]),o[l]=0;for(n in a)Object.prototype.hasOwnProperty.call(a,n)&&(e[n]=a[n]);for(f&&f(r);s.length;)s.shift()();return u.push.apply(u,p||[]),t()}function t(){for(var e,r=0;r<u.length;r++){for(var t=u[r],n=!0,i=1;i<t.length;i++){var a=t[i];0!==o[a]&&(n=!1)}n&&(u.splice(r--,1),e=l(l.s=t[0]))}return e}var n={},o={1:0},u=[];function l(r){if(n[r])return n[r].exports;var t=n[r]={i:r,l:!1,exports:{}};return e[r].call(t.exports,t,t.exports,l),t.l=!0,t.exports}l.m=e,l.c=n,l.d=function(e,r,t){l.o(e,r)||Object.defineProperty(e,r,{enumerable:!0,get:t})},l.r=function(e){"undefined"!=typeof Symbol&&Symbol.toStringTag&&Object.defineProperty(e,Symbol.toStringTag,{value:"Module"}),Object.defineProperty(e,"__esModule",{value:!0})},l.t=function(e,r){if(1&r&&(e=l(e)),8&r)return e;if(4&r&&"object"==typeof e&&e&&e.__esModule)return e;var t=Object.create(null);if(l.r(t),Object.defineProperty(t,"default",{enumerable:!0,value:e}),2&r&&"string"!=typeof e)for(var n in e)l.d(t,n,function(r){return e[r]}.bind(null,n));return t},l.n=function(e){var r=e&&e.__esModule?function(){return e.default}:function(){return e};return l.d(r,"a",r),r},l.o=function(e,r){return Object.prototype.hasOwnProperty.call(e,r)},l.p="/";var i=this["webpackJsonppersonal-site"]=this["webpackJsonppersonal-site"]||[],a=i.push.bind(i);i.push=r,i=i.slice();for(var p=0;p<i.length;p++)r(i[p]);var f=a;t()}([])</script><script src="/static/js/2.cbe8621e.chunk.js"></script><script src="/static/js/main.391ee6e3.chunk.js"></script></body></html>
